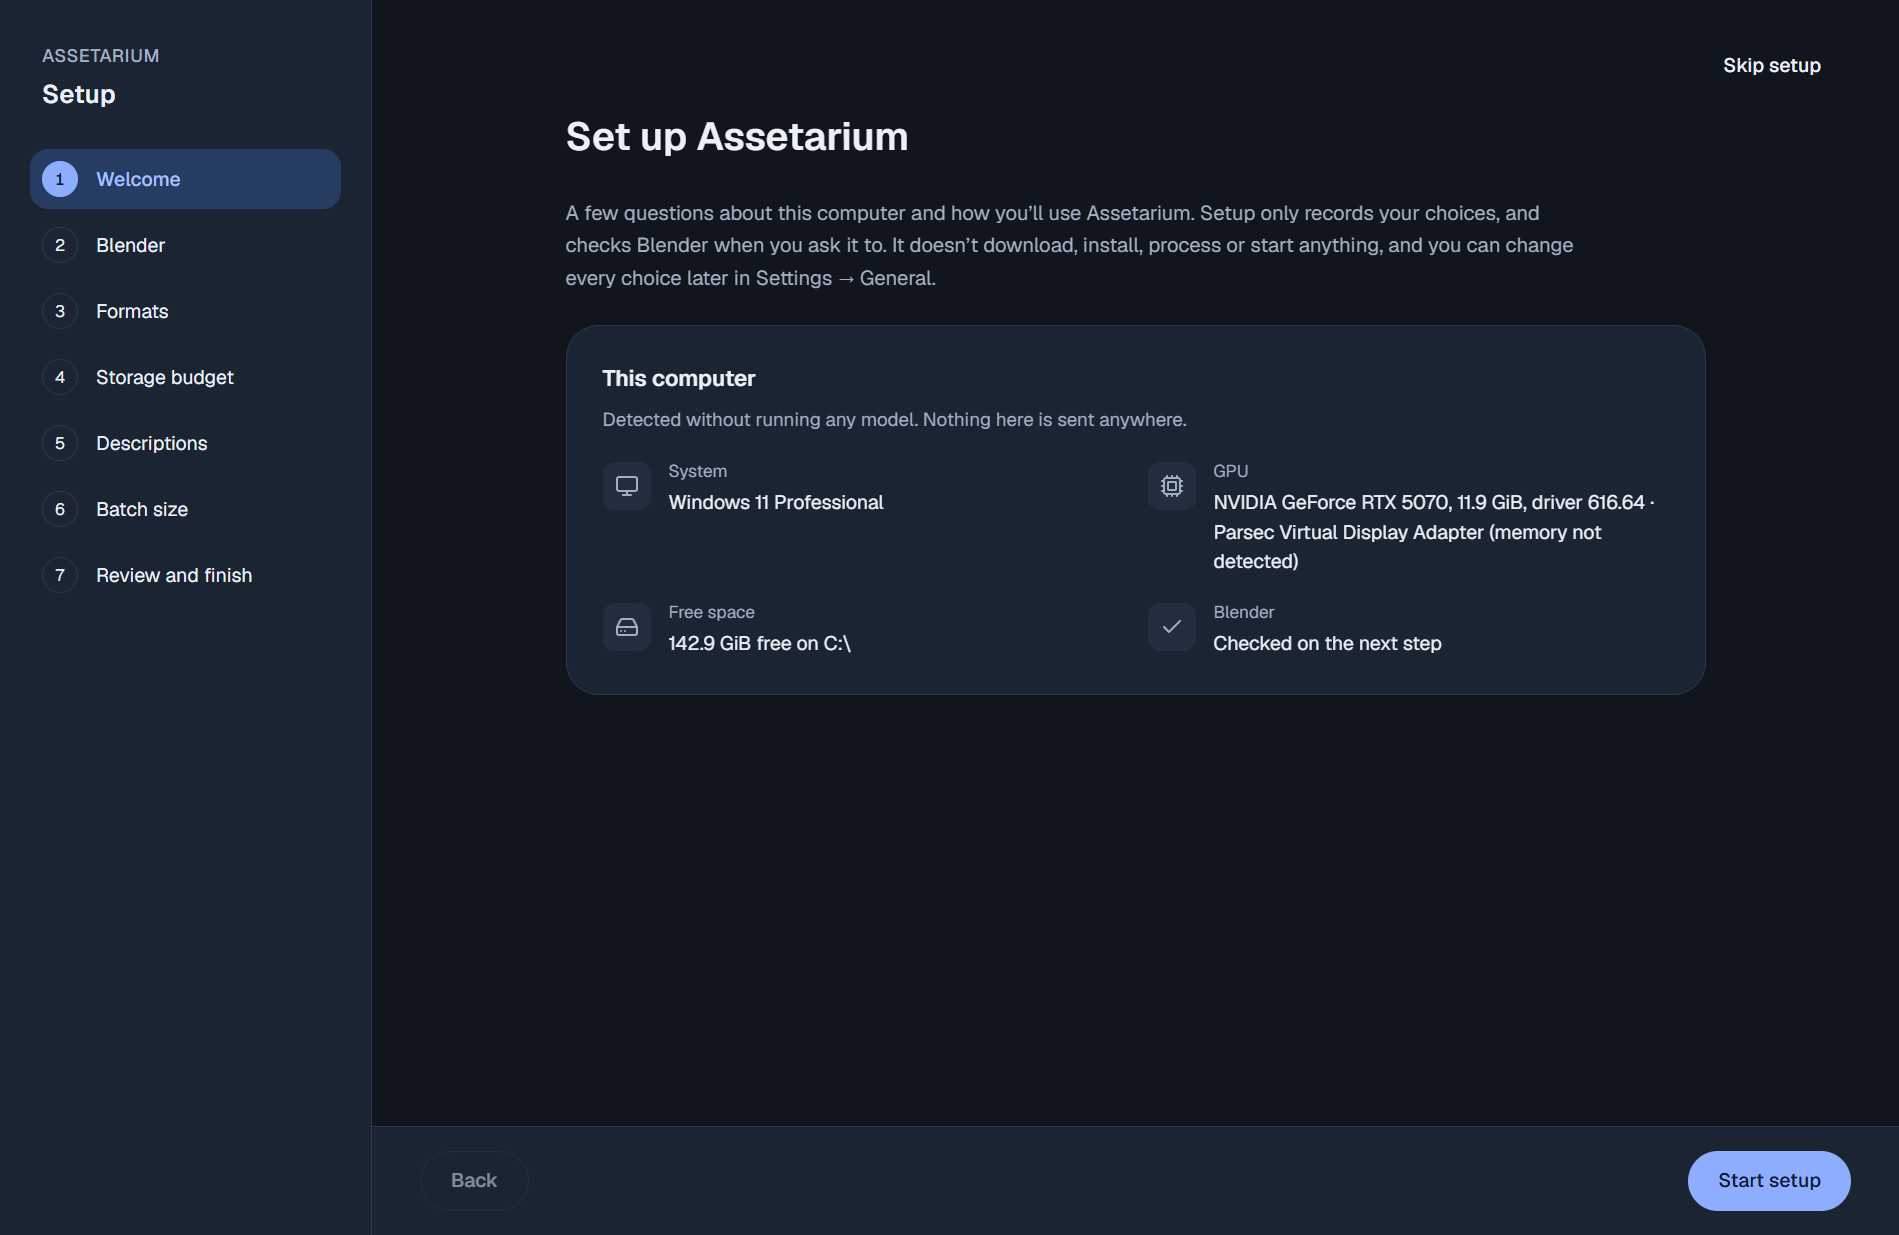
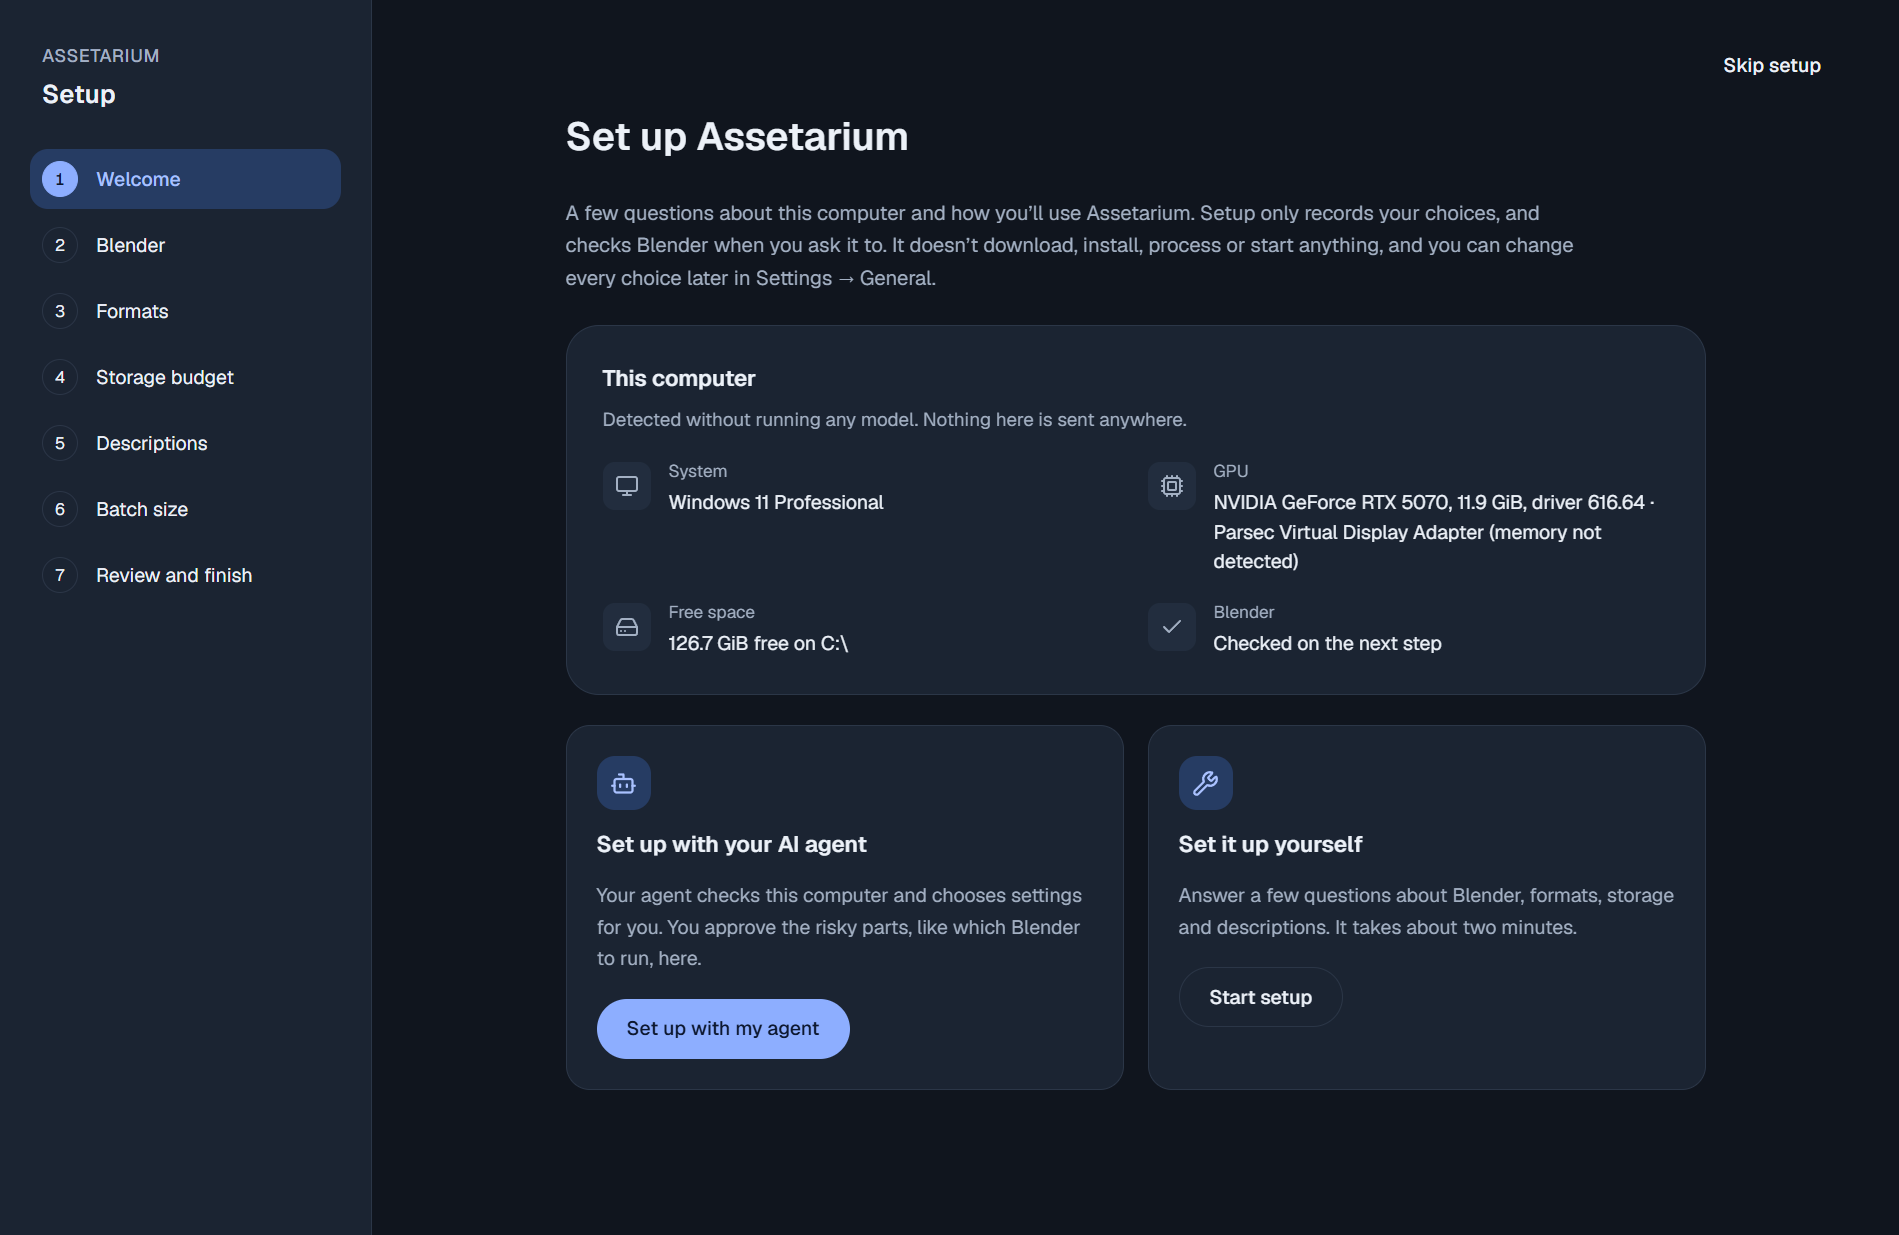
Update README setup welcome screenshots for the agent setup path (#2)
The welcome page now offers "Set up with your AI agent" and "Set it up
yourself". Replace the light and dark screenshots, explain both paths in the
README and note the change under Unreleased.

diff --git a/README.md b/README.md
@@ -86,9 +86,14 @@ in **Settings → General**.
 <p align="center">
   <picture>
     <source media="(prefers-color-scheme: dark)" srcset="docs/images/setup/00-welcome-dark.png">
-    <img src="docs/images/setup/00-welcome-light.png" alt="Setup welcome page showing this computer's system, GPU, free space and Blender status" width="760">
+    <img src="docs/images/setup/00-welcome-light.png" alt="Setup welcome page showing this computer's system, GPU, free space and Blender status, with the choice between setting up with your AI agent or setting it up yourself" width="760">
   </picture>
 </p>
+
+**Choose how to set up.** Pick **Set up with my agent** and your AI agent checks this
+computer and chooses the settings for you, while you approve the risky parts, like which
+Blender to run. Or pick **Start setup** and answer a few questions yourself; it takes
+about two minutes. The steps below follow the second path.
 
 **Blender.** Assetarium finds your Blender installation and checks that it can import
 glTF, FBX and OBJ. Blender always runs in the background with scripts and add-ons turned

diff --git a/CHANGELOG.md b/CHANGELOG.md
@@ -4,6 +4,13 @@ All notable changes to Assetarium are listed here. The project follows
 [Semantic Versioning](https://semver.org/); the format follows
 [Keep a Changelog](https://keepachangelog.com/).
 
+## [Unreleased]
+
+### Changed
+
+- README: the setup welcome screenshots now show the current page with the
+  "Set up with your AI agent" and "Set it up yourself" choices, and the README explains both.
+
 ## [0.1.0] — 2026-10-25
 
 First public release.
